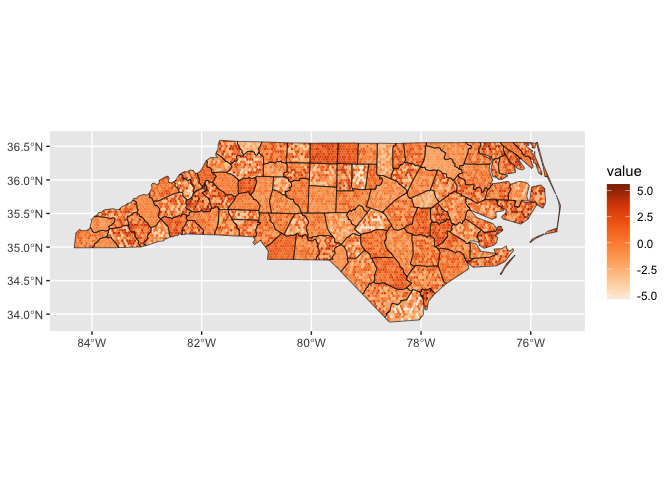
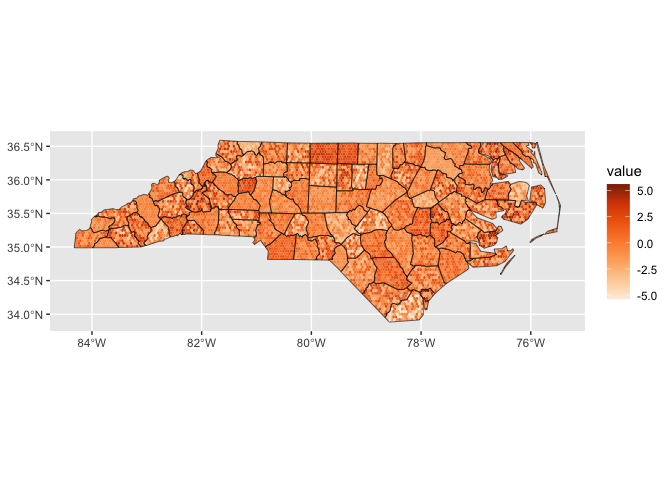
Fix check_win_devel errors

Changed region(s): [[0.0938, 0.2812, 0.8125, 0.6875]]

diff --git a/NEWS.md b/NEWS.md
@@ -1,4 +1,26 @@
-# ggincerta (development version)
+# ggincerta 0.2.0
+
+## New features
+
+* Added VSUP scales and guides for value-suppressing uncertainty palettes.
+
+* Added Chernoff face glyphs for glyph maps.
+
+* Added regular glyph shapes for `geom_sf_glyph()`, including circle, square, triangle, hexagon.
+
+* Added `geom_sf_dualmap()` for combining a colour-filled choropleth layer with a centroid-based glyph layer.
+
+## Improvements
+
+* `scale_bivariate()` now supports user-specified `breaks`, `limits`, and transformations.
+
+* `scale_bivariate()` now supports unequal numbers of groups across the two mapped variables.
+
+* Pixel maps now support different pixel shapes.
+
+## Deprecated and removed
+
+* Removed exceedance probability maps.
 
 # ggincerta 0.1.0
 

diff --git a/README.md b/README.md
@@ -105,7 +105,7 @@ can be used in the same way as other `geom_*()` functions in ggplot2,
 like `geom_point()`.
 
 ``` r
-ggplot(nc) + geom_sf_pixel(mapping = aes(fill = duo_pixel(value, sd)))
+ggplot(nc) + geom_sf_pixel(mapping = aes(fill = duo_pixel(value, sd)), seed = 123)
 #> geom_sf_pixel_new(): input data has a geographic CRS and sf is using s2; pixelation may be slow. Consider transforming to a projected planar CRS first.
 ```
 
